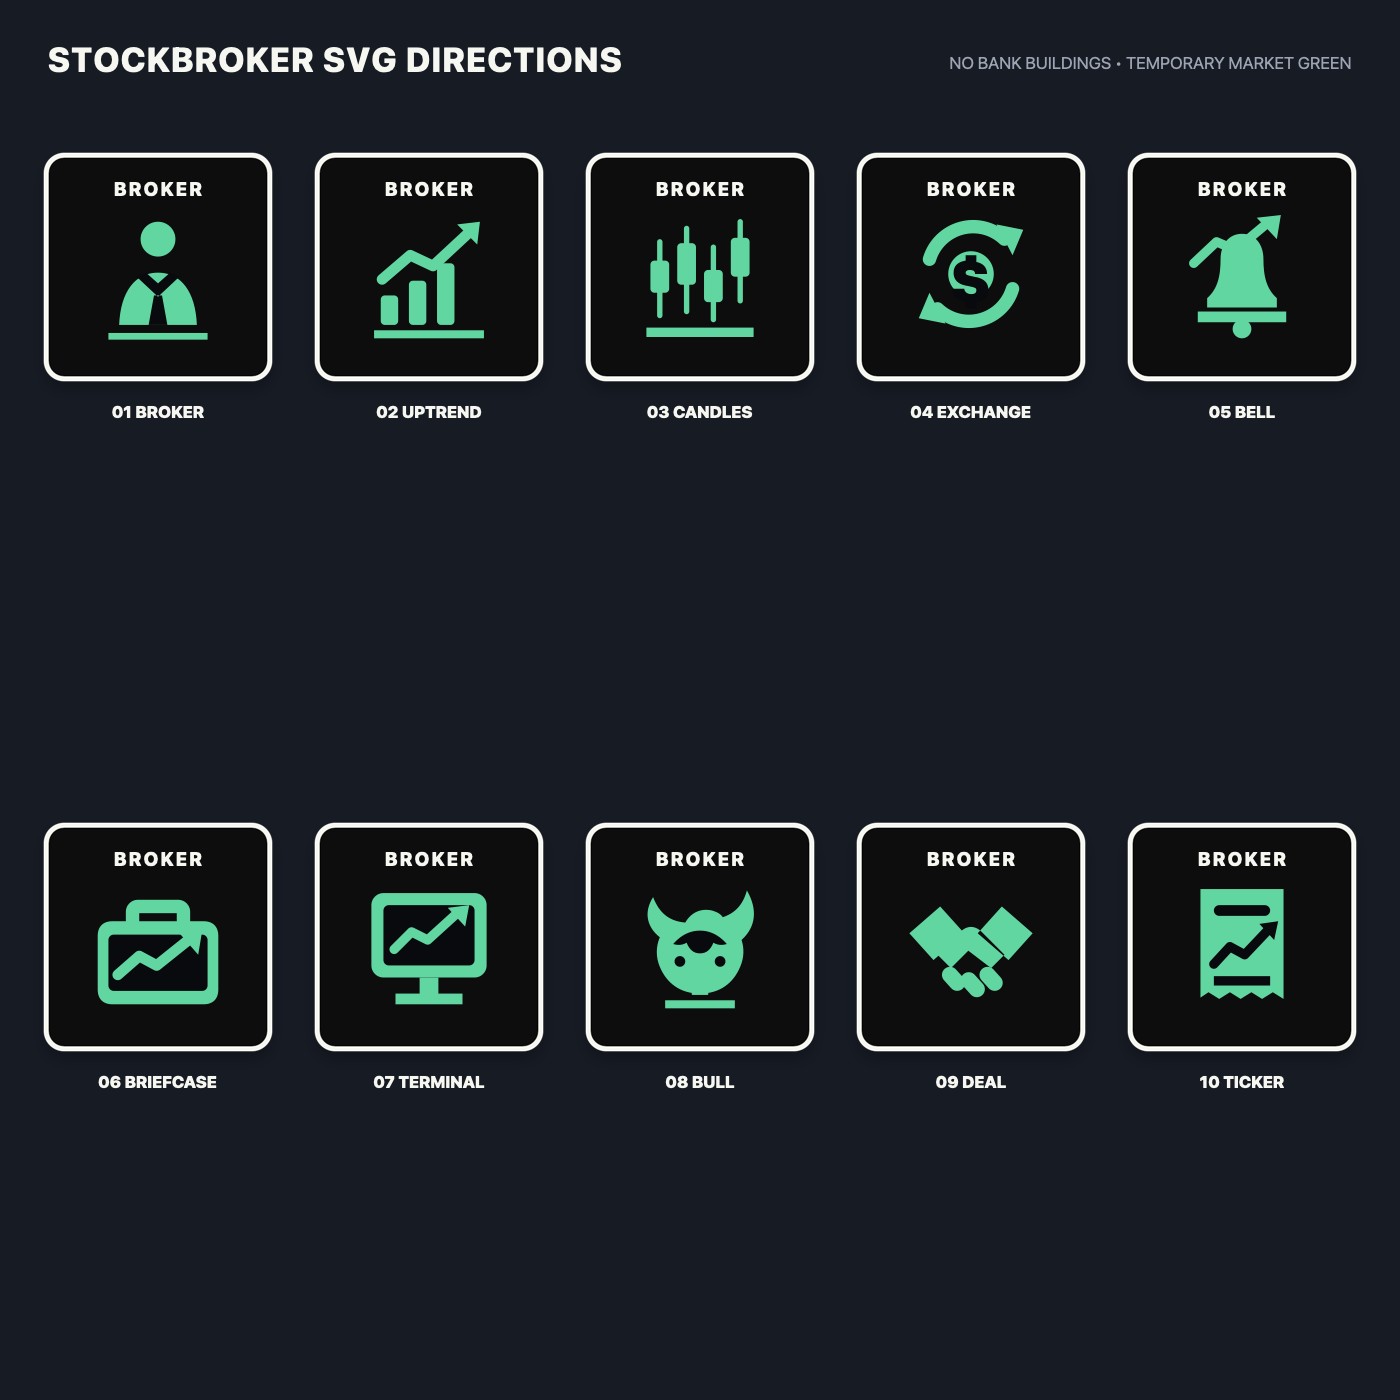
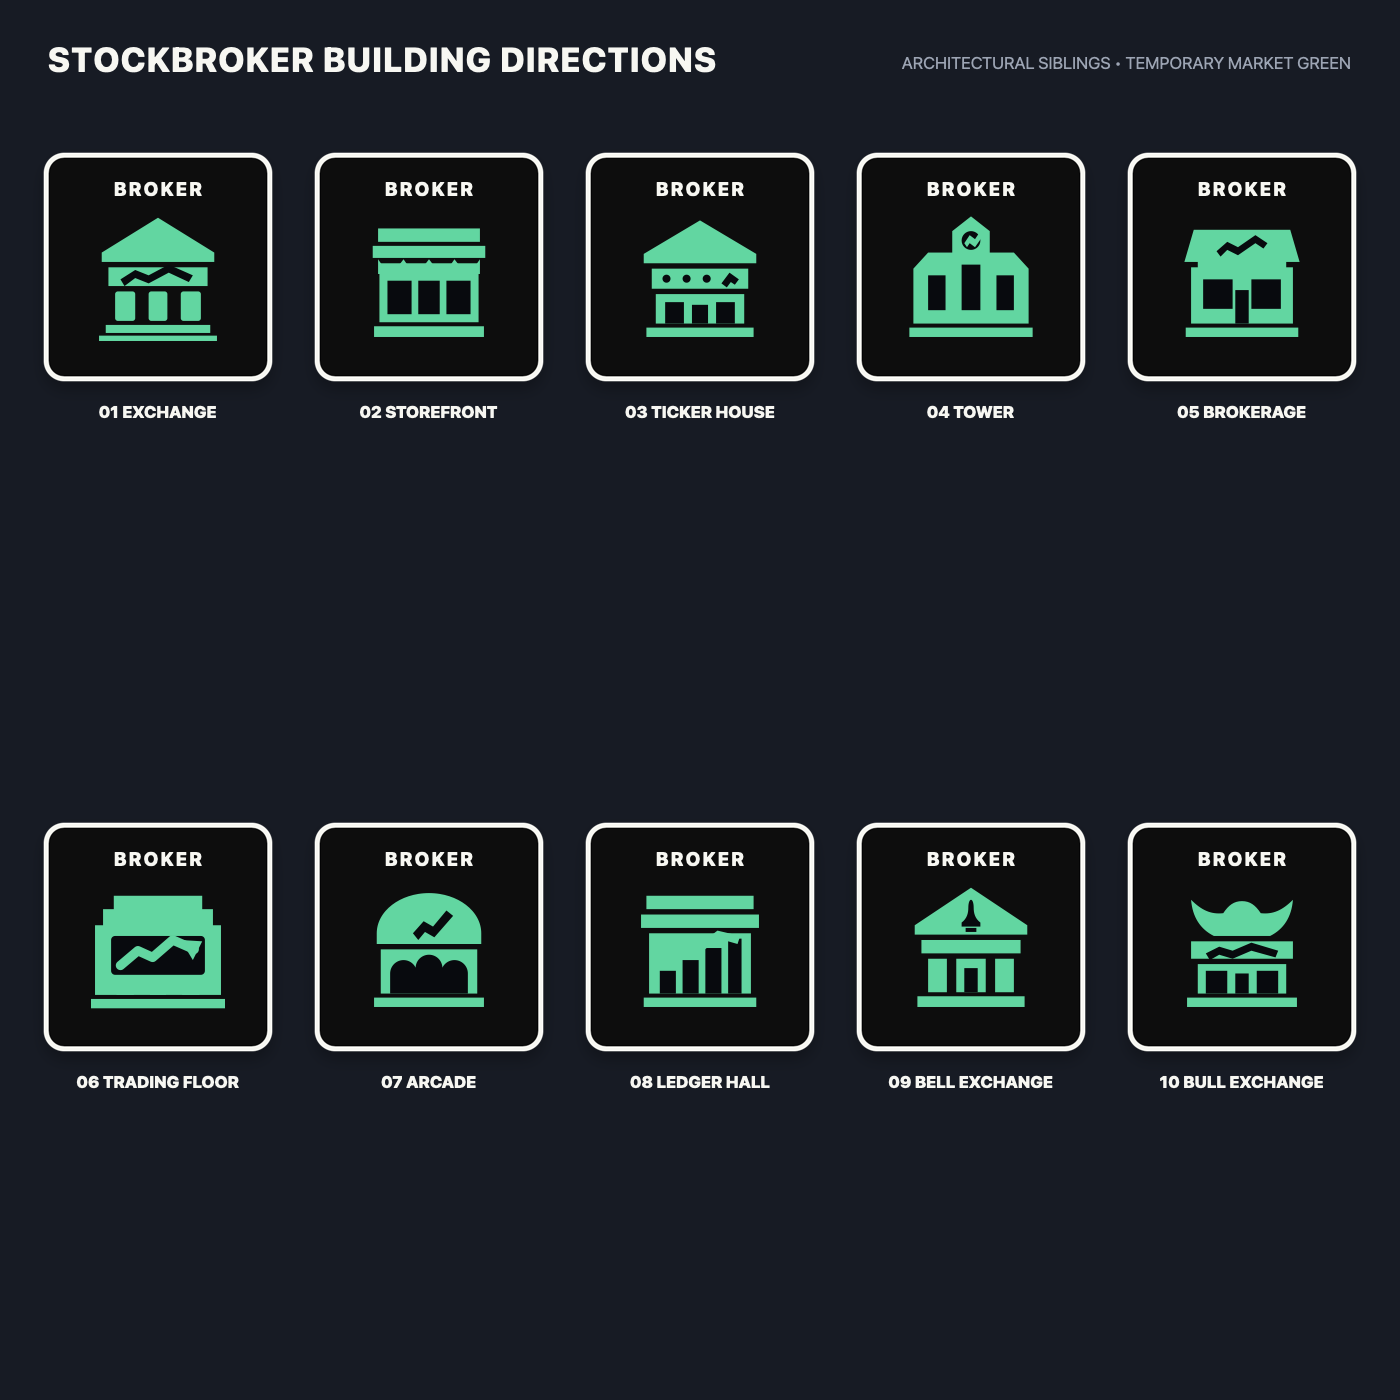
Revise stockbroker SVG directions

diff --git a/design/web_client.md b/design/web_client.md
@@ -234,9 +234,11 @@ selected smooth custom silhouette based on the "29D Slimmer Width" mockup.
 The selected bank-square visual direction is candidate 01 "Classic": a bold,
 single-color classical bank silhouette with a triangular pediment, four simple
 columns, and a two-step base. It should use the same clean filled-vector language
-as the suit icons. The stockbroker square must remain immediately distinct from
-the bank and therefore should not use a bank building, pediment, or classical
-columns; its final icon and color remain pending visual selection.
+as the suit icons. The stockbroker should read as an architectural sibling to
+the bank, using a brokerage or exchange building in the same bold one-color
+language, while remaining distinct through its roofline, storefront, ticker,
+signage, windows, or market motif. Its final icon and color remain pending
+visual selection.
 
 The board viewport must not resize in response to prompt/sidebar content during
 normal play. The board panel owns a stable responsive height and does not stretch